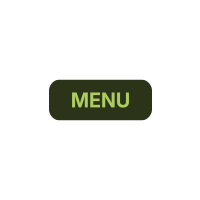
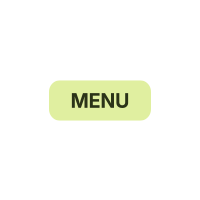
Fixing the images

Changed region(s): [[0.24, 0.39, 0.78, 0.63]]

diff --git a/main.py b/main.py
@@ -8,6 +8,7 @@ from settings import *
 from snake import Snake
 from network import NetworkClient
 
+# buttons = Button(pos, image_path, hover_image_path)
 
 
 # def check_internet_connection():
@@ -88,10 +89,14 @@ offline_text_font = pygame.font.Font("font/bold.ttf",25)
 online_text_font = pygame.font.Font("font/bold.ttf",25)
 not_avaiable_text_font= pygame.font.Font("font/bold.ttf",25)
 
+
+online_score_font = pygame.font.Font(None,60)
+online_score_text_font = pygame.font.Font(None, 40)
+
 ip_active = False
 user_active = False
-username = "Liam"
-server_ip = "192.168.99.230"
+username = ""
+server_ip = "192.168.99.121"
 
 names = ""
 scor = ""
@@ -158,12 +163,12 @@ class Game:
         self.score = 0
         self.high_score = 0
         self.high_score = load_high_score()
-        self.network = NetworkClient(server_ip,username)
+        self.network = None
     def draw(self):
         self.food.draw()
         self.snake.draw()
     def update(self):
-        if self.state in ["RUNNING", "ONLINE_PLAY"]:
+        if self.state in ["RUNNING", "ONLINE_PLAY","DEAD"]:
             self.snake.update()
             self.check_collison_with_food()
             self.check_collison_with_edges()
@@ -177,7 +182,8 @@ class Game:
             if self.score > self.high_score:
                 self.high_score = self.score
             self.snake.eat_sound.play()
-            self.network.send_score(self.score)
+            if self.network:
+                self.network.send_score(self.score)
     def check_collison_with_edges(self):
         if self.snake.body[0].x == number_of_cell or self.snake.body[0].x == -1:
             self.game_over()
@@ -210,8 +216,38 @@ def draw_grid():
 
 start_button = Button(
     pos=(screen.get_width() // 2, 300),
-    image_path="Graphics/menu_small_1.png",
-    hover_image_path="Graphics/menu_small_2.png"
+    image_path="Graphics/start1.png",
+    hover_image_path="Graphics/start2.png"
+)
+
+help_button = Button(
+    pos=(screen.get_width() // 2, 400),
+    image_path="Graphics/help1.png",
+    hover_image_path="Graphics/help2.png"
+)
+
+offline_button = Button(
+    pos=(screen.get_width() // 2, 300),
+    image_path="Graphics/offline1.png",
+    hover_image_path="Graphics/offline2.png"
+)
+
+online_button = Button(
+    pos=(screen.get_width() // 2, 300),
+    image_path="Graphics/online1.png",
+    hover_image_path="Graphics/online2.png"
+)
+
+enter_button = Button(
+    pos=(screen.get_width() // 2, 300),
+    image_path="Graphics/enter_1.png",
+    hover_image_path="Graphics/enter_2.png"
+)
+
+menu_button = Button(
+    pos=(screen.get_width() // 2, 300),
+    image_path="Graphics/start_menu.png",
+    hover_image_path="Graphics/start_glow.png"
 )
 
 def draw_main_menu():
@@ -222,11 +258,18 @@ def draw_main_menu():
     go_help_surface = go_help_text_font.render("Press h for help", True, DARK_GREEN)
 
     screen.blit(title_surface, ((screen.get_width() - title_surface.get_width()) // 2, 150))
-    screen.blit(go_help_surface, ((screen.get_width() - go_help_surface.get_width()) // 2, 350))
+    # screen.blit(go_help_surface, ((screen.get_width() - go_help_surface.get_width()) // 2, 350))
     screen.blit(credits_text_surface, (OFFSET + 220, cell_size * number_of_cell + 120))
 
     # Draw hoverable start button
     start_button.draw(screen)
+    help_button.draw(screen)
+    # Show cursor hitbox
+    pygame.draw.circle(screen, (0, 255, 0), pygame.mouse.get_pos(), 5)  # green dot at mouse
+
+# Draw the red rectangle around button hitboxes (very useful)
+    pygame.draw.rect(screen, (255, 0, 0), start_button.rect, 2)
+    pygame.draw.rect(screen, (255, 0, 0), help_button.rect, 2)
 
     pygame.display.update()
 
@@ -260,7 +303,7 @@ def draw_choose_offline():
     screen.blit(not_avaiable_surface, ((screen.get_width() - not_avaiable_surface.get_width()) // 2, 400))
     pygame.display.update()
 
-def handleclick(event):
+def handleclick(event,network):
     global username,font,color
     font = pygame.font.Font(None, 40)
     # input_box = pygame.Rect(200, 185, 240, 50)  # Fixed width
@@ -288,13 +331,15 @@ def handleclick(event):
             if user_active:
                 if event.key == pygame.K_RETURN:
                     print("Username entered:", username)
+                    # network.send
                 elif event.key == pygame.K_BACKSPACE:
                     username = username[:-1]
                 else:
                     username += event.unicode
             elif ip_active:
                 if event.key == pygame.K_RETURN:
-                    print("Server IP entered:", server_ip)
+                    # print("Server IP entered:", server_ip)
+                    game.network = NetworkClient(server_ip, username)
                     game.state = "ONLINE_PLAY"
                 elif event.key == pygame.K_BACKSPACE:
                     server_ip = server_ip[:-1]
@@ -347,13 +392,18 @@ def draw_other_scores(screen, network, font):
     Assumes `network.get_scores()` returns a dictionary: {username: score}
     """
     scores = network.get_scores()
+    x = OFFSET + 460
+    y = cell_size * number_of_cell + 90
+
     # print("Received scores:", scores)
     # print(scores.items())
     for name, score in scores.items():
-        global names,scor
-        names = name
-        scor = score
-        print(str(names) + " " + str(scor))
+        name_surface = online_score_text_font.render(str(name), True, DARK_GREEN)
+        score_surface = online_score_font.render(str(score), True, DARK_GREEN)
+        screen.blit(name_surface, (x,y-10))
+        screen.blit(score_surface, (x+30,y+25))
+        x -= 400
+        # print(str(names) + " " + str(scor))
 
 
 
@@ -400,8 +450,10 @@ while True:
             if event.type == pygame.KEYDOWN and event.key == pygame.K_o:
                 game.state = "ONLINE"
         if game.state == "ONLINE":
-            handleclick(event)
+            handleclick(event, game.network)
+            # print("The game state is ONLINE")
         if game.state == "DEAD":
+            # print("The game state is DEAD")
             if event.type == pygame.KEYDOWN:
                 game.snake.reset()
                 # game.food.position = game.food.generate_random_pos(game.snake.body)
@@ -412,6 +464,7 @@ while True:
                 game.state = "RUNNING"
         
         elif game.state in ["RUNNING","ONLINE_PLAY"]:
+            # print("The game state is RUNNING or OnlinePLay")
             if event.type == SNAKE_UPDATE:
                 game.update()
             if event.type == pygame.KEYDOWN:
@@ -450,7 +503,12 @@ while True:
         #draw_other_scores(screen,game.network,score_font)
         game.state = "STOPPED"
         pygame.display.update()
+
     elif game.state == "ONLINE_PLAY":
+        # game.network.get_scores()
+        # print("Initial online data:", scor, names)
+        # print("Drawing state onlineplay")
+        # print(username)
         screen.fill(GREEN)
         draw_grid()
         pygame.draw.rect(screen, DARK_GREEN, (OFFSET-5, OFFSET-5, cell_size*number_of_cell+10, cell_size*number_of_cell+10), 5)
@@ -466,11 +524,12 @@ while True:
         screen.blit(title_surface, (OFFSET-5,20))
         # screen.blit(right_now_score, (OFFSET+50, cell_size*number_of_cell +115))
         # screen.blit(own_name, (OFFSET+15, cell_size*number_of_cell + 90))
-        screen.blit(online_score, (OFFSET+490, cell_size * number_of_cell + 115))
-        screen.blit(online_name,(OFFSET+460, cell_size * number_of_cell + 90))
+        # screen.blit(online_score, (OFFSET+490, cell_size * number_of_cell + 115))
+        # screen.blit(online_name,(OFFSET+460, cell_size * number_of_cell + 90))
         pygame.display.update()
         
     elif game.state == "DEAD":
+        # print("drawing state Dead")
         screen.fill(GREEN)
         draw_grid()
         pygame.draw.rect(screen, DARK_GREEN, (OFFSET-5, OFFSET-5, cell_size*number_of_cell+10, cell_size*number_of_cell+10), 5)
@@ -478,16 +537,16 @@ while True:
         draw_other_scores(screen, game.network, score_font)
     
         title_surface = title_font.render("Retro Snake", True, DARK_GREEN)
-        score_surface = score_font.render(str(game.score),True, DARK_GREEN)
-        high_score_surface =  high_score_font.render(str(scor), True, DARK_GREEN)
-        high_score_text_surface = high_score_text_font.render(names, True, DARK_GREEN)
-        score_text_surface = score_text_font.render(username, True, DARK_GREEN)
+        right_now_score = score_font.render(str(game.score),True, DARK_GREEN)
+        online_score =  high_score_font.render(str(scor), True, DARK_GREEN)
+        online_name = high_score_text_font.render(names, True, DARK_GREEN)
+        own_name = score_text_font.render(username, True, DARK_GREEN)
     
         screen.blit(title_surface, (OFFSET-5,20))
-        # screen.blit(score_surface, (OFFSET+50, cell_size*number_of_cell +115))
-        # screen.blit(score_text_surface, (OFFSET+15, cell_size*number_of_cell + 90))
-        screen.blit(high_score_surface, (OFFSET+490, cell_size * number_of_cell + 115))
-        screen.blit(high_score_text_surface,(OFFSET+460, cell_size * number_of_cell + 90))
+        # screen.blit(right_now_score), (OFFSET+50, cell_size*number_of_cell +115))
+        # screen.blit(own_name, (OFFSET+15, cell_size*number_of_cell + 90))
+        # screen.blit(online_score, (OFFSET+490, cell_size * number_of_cell + 115))
+        # screen.blit(online_name,(OFFSET+460, cell_size * number_of_cell + 90))
         pygame.display.update()
         
 

diff --git a/button.py b/button.py
@@ -1,0 +1,20 @@
+import pygame
+
+class Button:
+    def __init__(self, pos, image_path, hover_image_path):
+        self.image = pygame.image.load(resource_path(image_path)).convert_alpha()
+        self.hover_image = pygame.image.load(resource_path(hover_image_path)).convert_alpha()
+        self.rect = self.image.get_rect(center=pos)
+
+    def draw(self, screen):
+        if self.rect.collidepoint(pygame.mouse.get_pos()):
+            screen.blit(self.hover_image, self.rect)
+        else:
+            screen.blit(self.image, self.rect)
+
+    def is_clicked(self, event):
+        if event.type == pygame.MOUSEBUTTONDOWN and event.button == 1:
+            if self.rect.collidepoint(pygame.mouse.get_pos()):
+                return True
+        return False
+

diff --git a/server.py b/server.py
@@ -2,7 +2,7 @@ import socket
 import threading
 import json
 
-server = "192.168.99.230"
+server = "192.168.99.121"
 port = 5555
 
 clients = []
@@ -29,6 +29,8 @@ def handle_client(conn,addr):
         msg = json.loads(data.decode())
         username = msg.get("username", str(addr))
         scores[username] = msg.get("score", 0)
+
+        broadcast_scores()
         
         while True:    
             data = conn.recv(2048)
@@ -44,7 +46,7 @@ def handle_client(conn,addr):
                 print(f"Error parsing data from {username}:", {e})
     finally:
         clients.remove(conn)
-        scores.pop(player_id,None)
+        scores.pop(username,None)
         broadcast_scores()
         conn.close()
 
